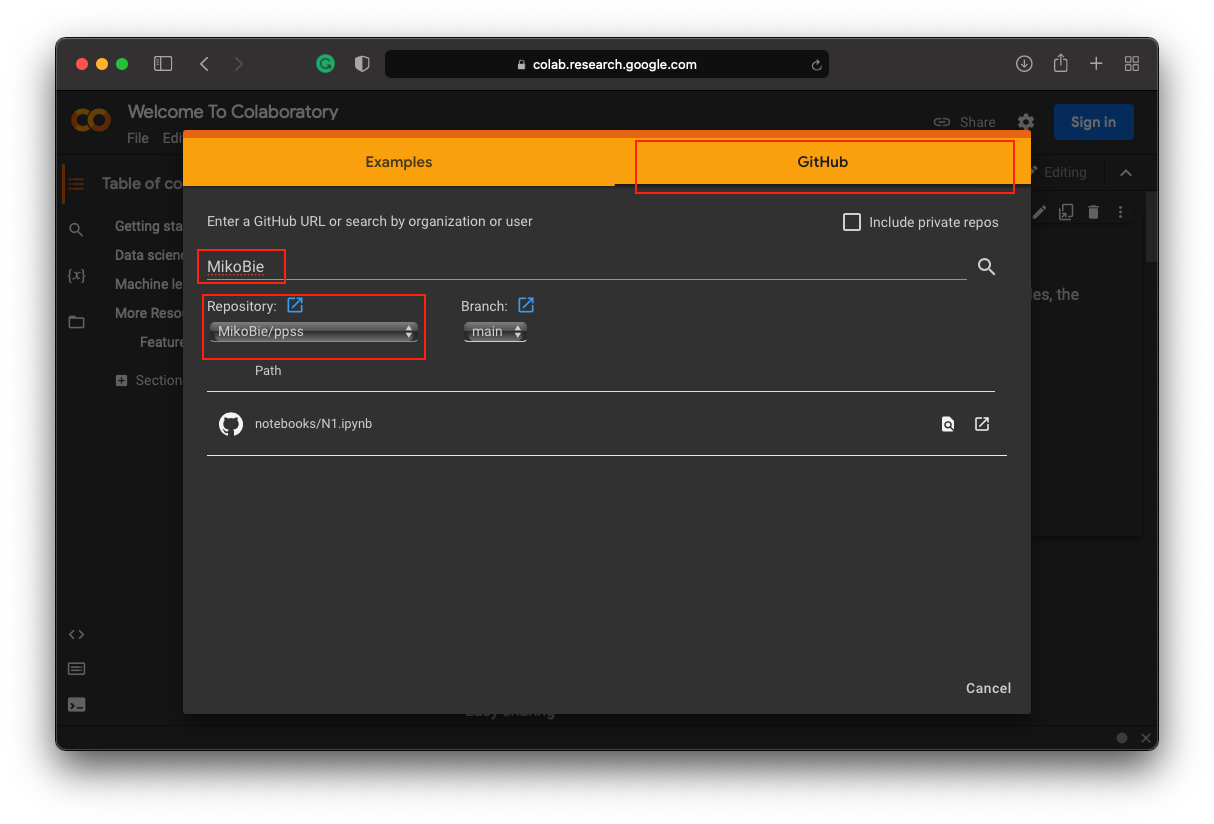
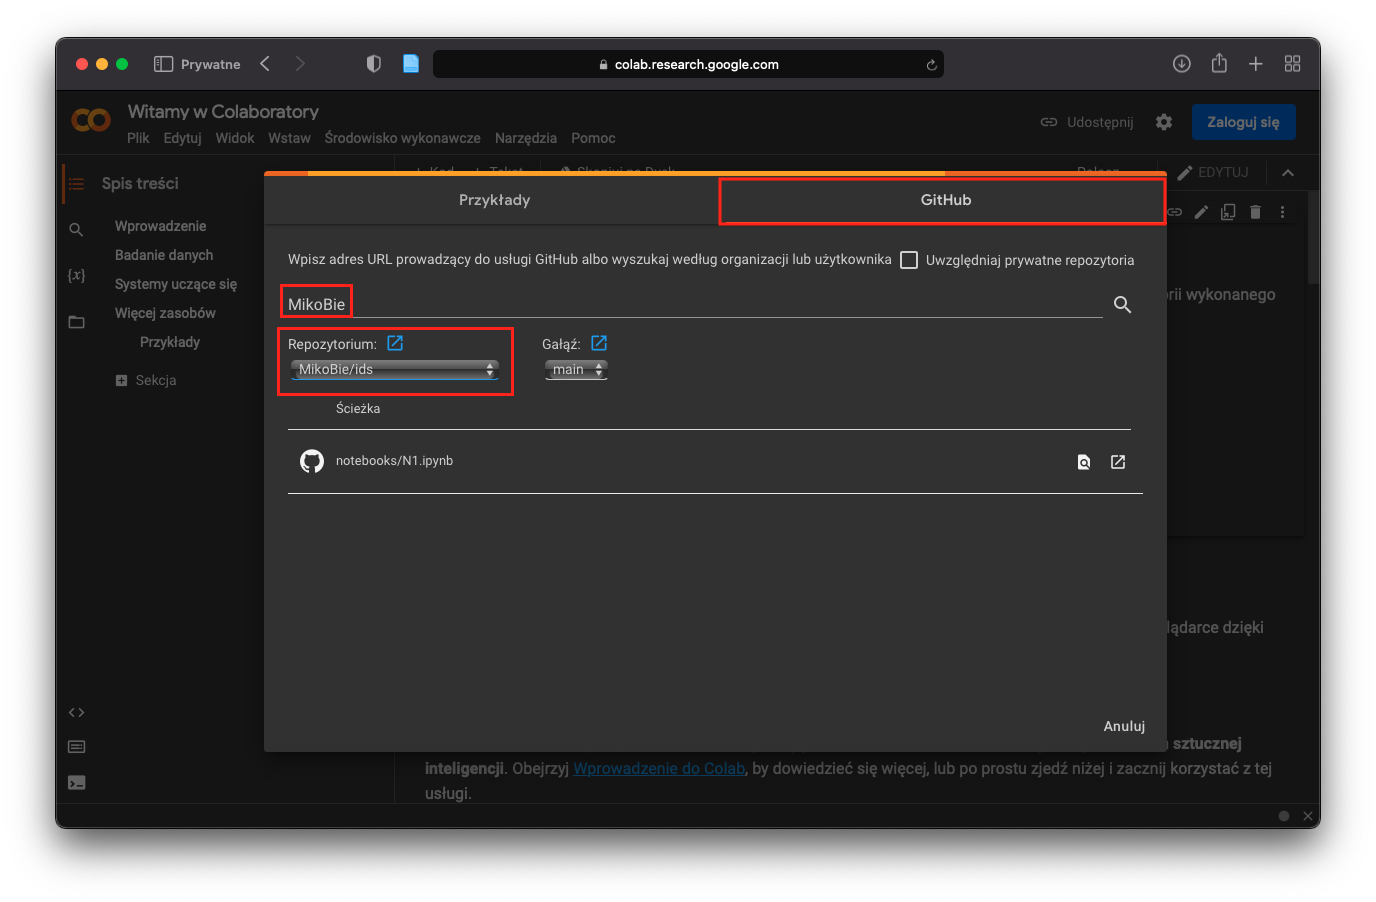
README: update. TODO: maintainence of pngs.

Changed region(s): [[0.0305, 0.0303, 0.9753, 0.9405], [0.8534, 0.3034, 0.9143, 0.3641], [0.8534, 0.6675, 0.9143, 0.6978]]

diff --git a/README.md b/README.md
@@ -26,7 +26,7 @@ For more advanced users I recommend running Jupyter Notebooks on their local mac
 
 ### Setup
 
-1. Cloen the repo: `git@github.com:MikoBie/ppss`
+1. Cloen the repo: `git@github.com:MikoBie/ids`
 2. Set up the proper virtual environment with _python3.10_
 3. Install all the dependencies from `requirenments.txt`
 
